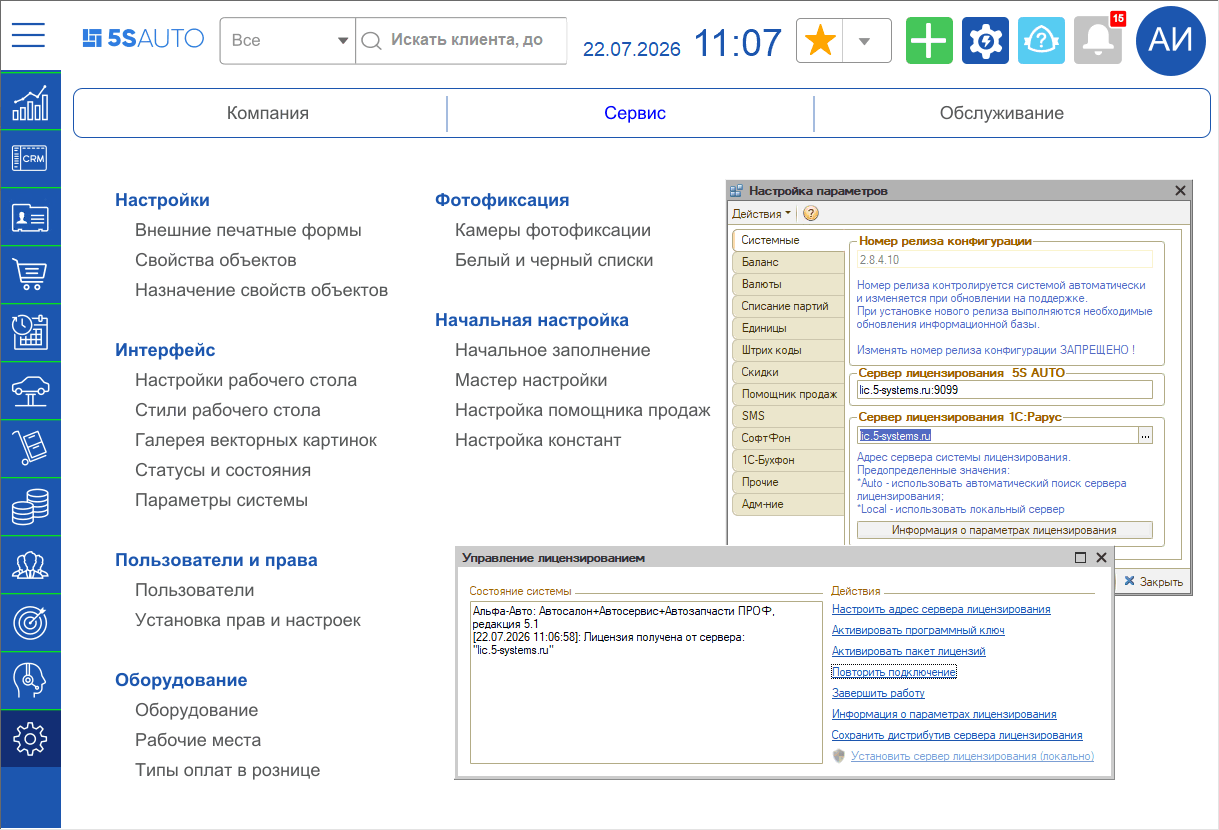
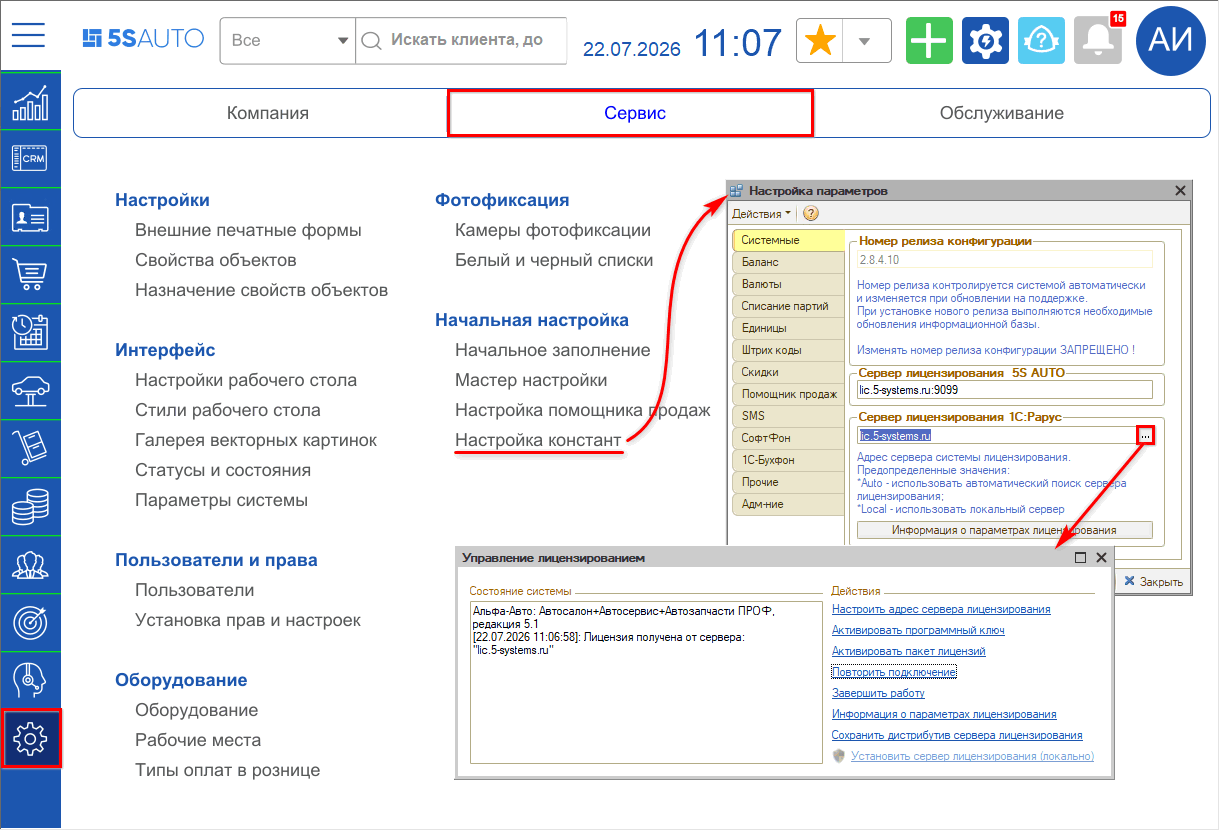
Correct the 1С-Рарус licence path and annotate its screenshots.
The route is Администрирование → Сервис → Настройка констант and the
field reads Сервер лицензирования 1С:Рарус, so the steps are rewritten
accordingly. Both screenshots now carry callouts marking the menu path
and the link that opens the connection counts.

diff --git a/knowledges/5S AUTO/Лицензирование 5S AUTO/ARTICLE.md b/knowledges/5S AUTO/Лицензирование 5S AUTO/ARTICLE.md
@@ -106,14 +106,13 @@
 
 **Из программы 5S AUTO / Альфа-Авто:**
 
-1. Откройте меню **Сервис → Настройка параметров**.
-2. Перейдите на вкладку **Системные**.
-3. Найдите поле **Сервер системы лицензирования** и нажмите кнопку **«…»**.
-4. Откроется окно **«Управление лицензированием»** — в нём отображается состояние программы и адрес сервера, от которого получена лицензия.
+1. Откройте меню **Администрирование → Сервис → Настройка констант**.
+2. Откроется окно **«Настройка параметров»** — на вкладке **«Системные»** в поле **«Сервер лицензирования 1С:Рарус»** нажмите кнопку **«…»**.
+3. Откроется окно **«Управление лицензированием»** — в нём отображается состояние программы и адрес сервера, от которого получена лицензия.
 
-![Переход к управлению лицензированием: Сервис → Настройка параметров → Системные](attachments/Лицензирование_Рарус_АА5_01-Переход_к_Управлению.png)
+![Переход к управлению лицензированием: Администрирование → Сервис → Настройка констант](attachments/Лицензирование_Рарус_АА5_01-Переход_к_Управлению.png)
 
-5. Нажмите ссылку **«Информация о параметрах лицензирования»** — откроется окно **«Текущие параметры лицензирования»**. В строке **«Подключений за место»** видно, сколько лицензий всего, сколько занято и сколько свободно.
+4. Нажмите ссылку **«Информация о параметрах лицензирования»** — откроется окно **«Текущие параметры лицензирования»**. В строке **«Подключений за место»** видно, сколько лицензий всего, сколько занято и сколько свободно.
 
 ![Текущие параметры лицензирования: количество подключений](attachments/Лицензирование_Рарус_АА5_06-Управление_лицензированием_Информация_о_текущих_параметрах.png)
 
